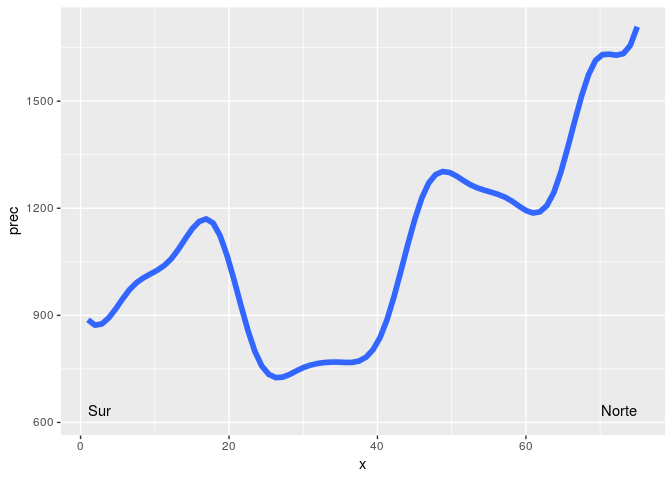
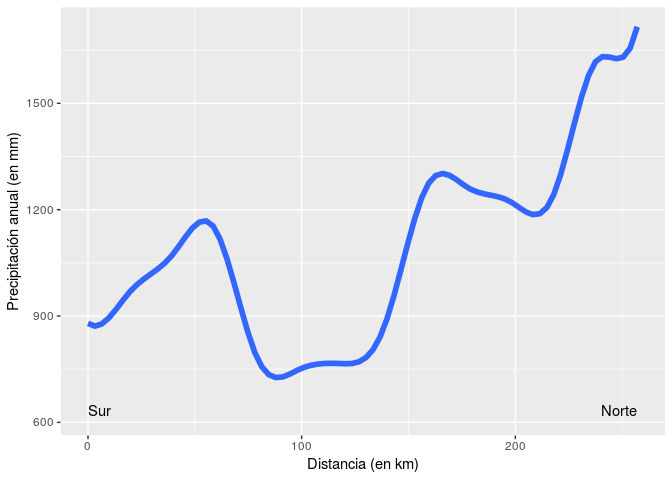
DR transect and readme updated

diff --git a/README.md b/README.md
@@ -126,7 +126,7 @@ Preguntas/mandatos. Responde según las referencias señaladas arriba. En caso d
 
     Tu respuesta, aquí: ...
 
--   Genera un gráfico de precipitación anual de RD en un gradiente Norte-Sur, a lo largo de un transecto elegido para ti y utilizando la serie de datos [WorldClim, versión 2]((http://worldclim.org/version2)) (Fick & Hijmans, 2017).
+-   Genera un gráfico de precipitación anual de RD a lo largo de un transecto Norte-Sur elegido para ti, utilizando la serie de datos [WorldClim, versión 2]((http://worldclim.org/version2)) (Fick & Hijmans, 2017).
 
         ##                  transecto
         ## AbigailCP               31
@@ -141,19 +141,11 @@ Preguntas/mandatos. Responde según las referencias señaladas arriba. En caso d
         ## maritzafg              146
         ## yanderlin              138
 
-    Fíjate en el siguiente ejemplo, donde se genera el gradiente térmico latitudinal continental para el transecto `1`.
+    Fíjate en el siguiente ejemplo, donde se genera un transecto de precipitación Norte-Sur para el transecto `1`.
 
     ``` r
     RDp(1)
     ```
-
-        ## Reading layer `transectos' from data source `/home/jr/Documentos/clases_UASD/201902/biogeografia/asignaciones/unidad-2-asignacion-1-contexto-fisico-plantilla-geo/src/transectos.gpkg' using driver `GPKG'
-        ## Simple feature collection with 200 features and 0 fields
-        ## geometry type:  LINESTRING
-        ## dimension:      XY
-        ## bbox:           xmin: -71.84431 ymin: 17.60545 xmax: -69.28284 ymax: 19.93093
-        ## epsg (SRID):    4326
-        ## proj4string:    +proj=longlat +datum=WGS84 +no_defs
 
     ![](img/trans_rd_prec-1.png)![](img/trans_rd_prec-2.png)
 
